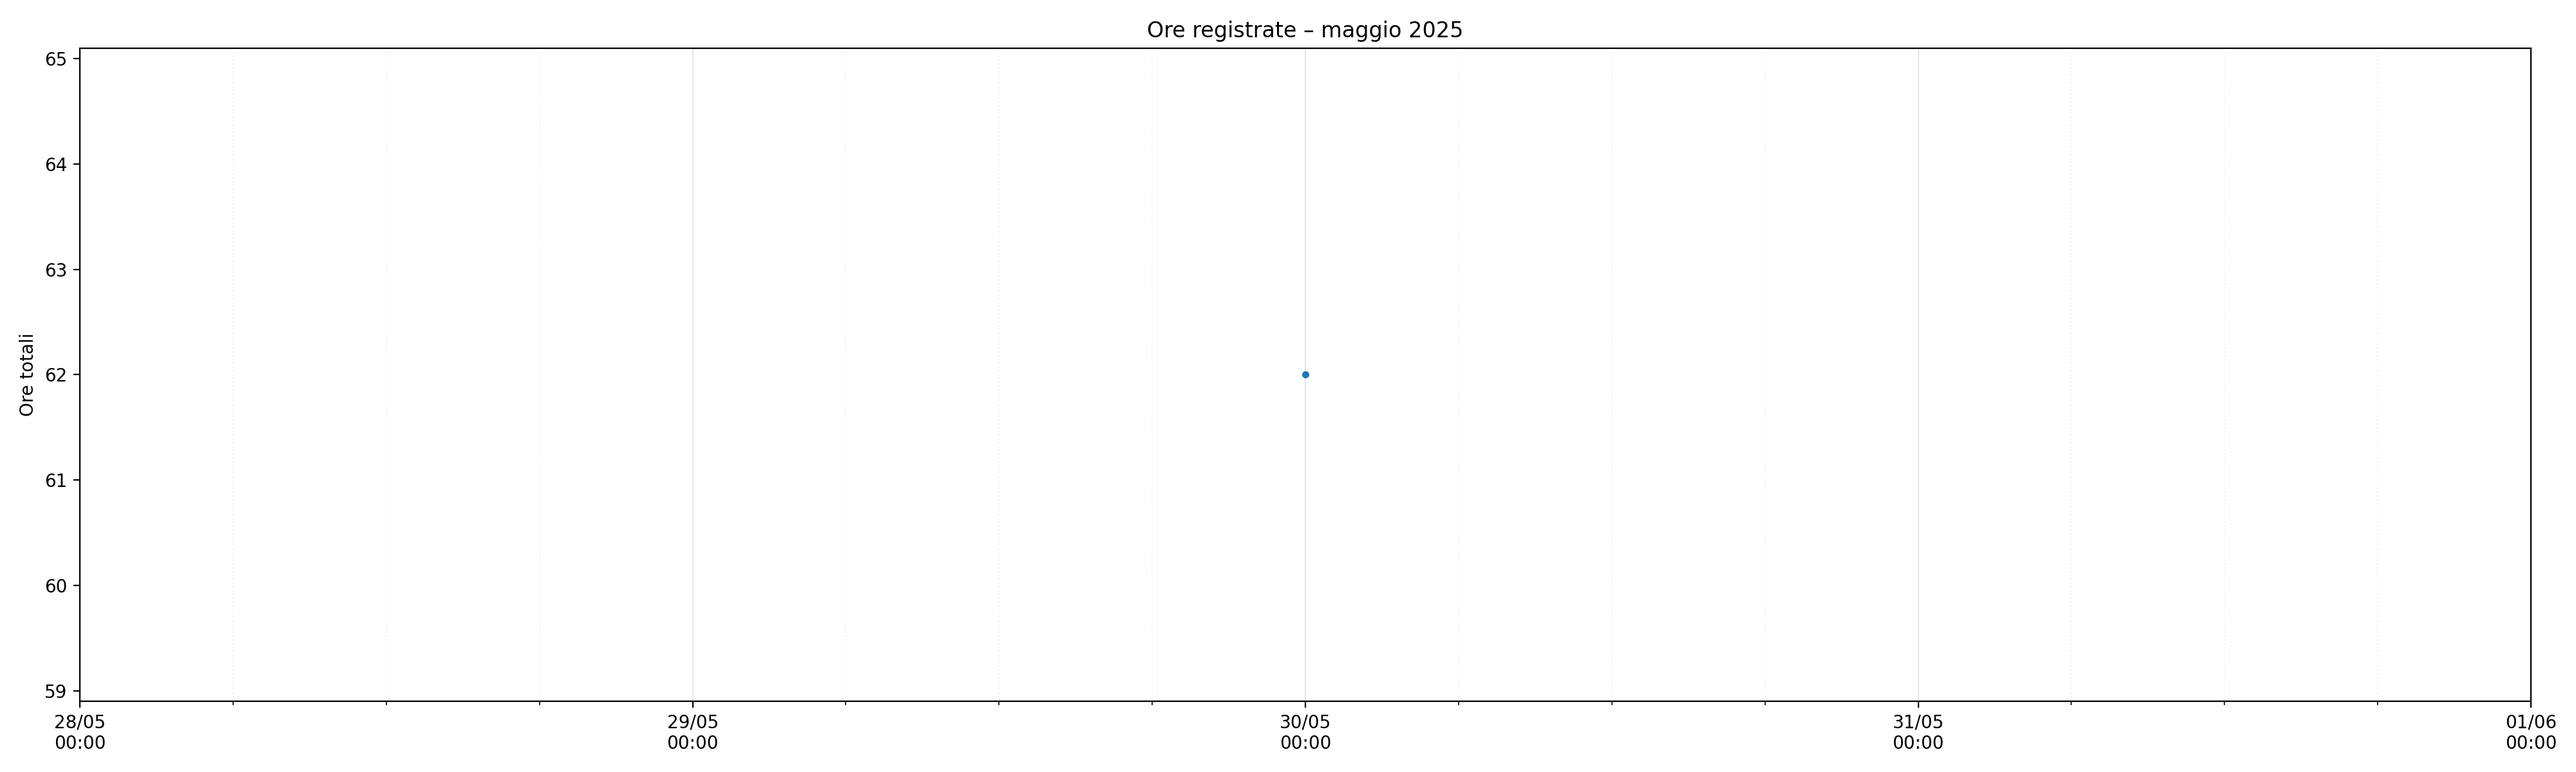
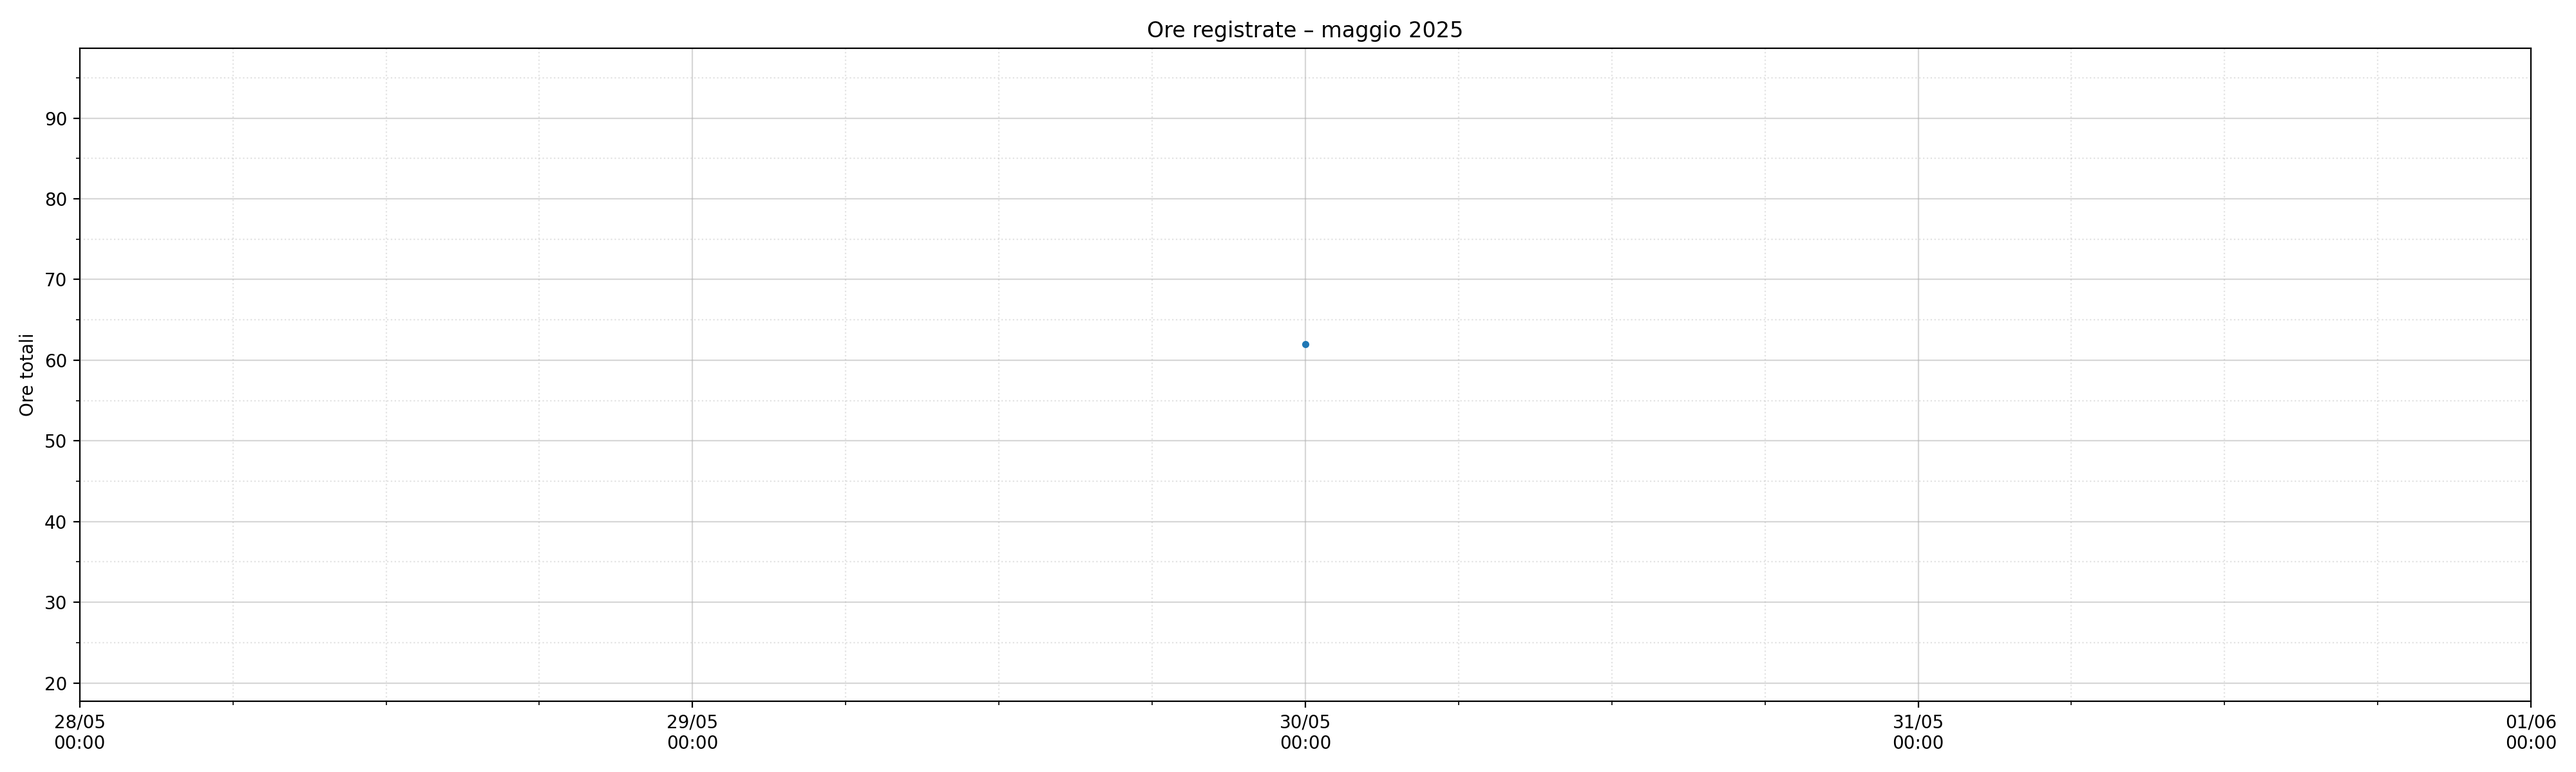
update + fixed grid representation (also hours grid fix)

Changed region(s): [[0.25, 0.925, 0.2812, 0.9558], [0.0, 0.4625, 0.0312, 0.4933], [0.0, 0.3392, 0.0312, 0.37]]

diff --git a/calcolatore.py b/calcolatore.py
@@ -3,6 +3,7 @@ import matplotlib.pyplot as plt
 import matplotlib.dates as mdates
 from matplotlib.dates import DateFormatter, DayLocator, HourLocator
 from datetime import timedelta
+import math
 import os
 import json
 import locale
@@ -41,15 +42,23 @@ def get_y_limits(series, margin=0.05):
     pad = (y_max - y_min) * margin
     return y_min - pad, y_max + pad
 
-# Funzione standard per configurare asse X con griglia precisa
-def configure_x_axis(ax):
+# Funzione per configurare gli assi della griglia
+def configure_axes(ax):
+    # Asse X
     ax.set_xlim(x_min, x_max)
     ax.xaxis.set_major_locator(DayLocator(interval=1))             # griglia ogni giorno a mezzanotte
-    ax.xaxis.set_minor_locator(HourLocator(interval=6))            # griglia leggera ogni 6 ore
+    #ax.xaxis.set_minor_locator(DayLocator(interval=4))
+    ax.xaxis.set_minor_locator(HourLocator(byhour=[0, 6, 12, 18]))  # griglia leggera ogni 6 ore
     ax.xaxis.set_major_formatter(x_fmt)
     ax.tick_params(axis='x', rotation=0)  # verticale per evitare sovrapposizione
-    ax.grid(which="major", axis='x', alpha=0.3)
-    ax.grid(which="minor", axis='x', linestyle=":", alpha=0.15)
+    ax.grid(which="major", axis='x', alpha=0.5)
+    ax.grid(which="minor", axis='x', linestyle=":", alpha=0.35)
+
+    # Asse Y
+    ax.yaxis.set_major_locator(plt.MaxNLocator(math.ceil(df["hours"].max() / 10))) # numero divisibile per 10 più grande più vicino
+    ax.yaxis.set_minor_locator(plt.MaxNLocator(math.ceil(df["hours"].max() / 5)))
+    ax.grid(which="major", axis='y', alpha=0.5)
+    ax.grid(which="minor", axis='y', linestyle=":", alpha=0.35)
 
 # Grafico 1 – Ore registrate da Steam
 fig, ax = plt.subplots(figsize=(80,24))
@@ -59,7 +68,7 @@ ax.plot(plot_df.index, plot_df["hours"], marker="o", linestyle="-", color="#1f77
 ax.set_title("Ore registrate (Steam: ultime 2 settimane)")
 ax.set_ylabel("Ore totali")
 ax.set_ylim(*get_y_limits(df["hours"]))
-configure_x_axis(ax)
+configure_axes(ax)
 plt.tight_layout()
 fig.savefig("grafici/01_snapshot_ore.png", dpi=300)
 
@@ -73,7 +82,7 @@ ax.set_title("Differenza di ore tra snapshot consecutivi")
 ax.set_ylabel("Δ ore")
 ax.axhline(0, color="gray", linestyle="--", linewidth=0.8)
 ax.set_ylim(*get_y_limits(df["delta_hours"]))
-configure_x_axis(ax)
+configure_axes(ax)
 plt.tight_layout()
 fig.savefig("grafici/02_delta_ore.png", dpi=300)
 
@@ -85,7 +94,7 @@ ax.set_title("Differenza di ore tra snapshot consecutivi")
 ax.set_ylabel("Δ ore")
 ax.axhline(0, color="gray", linestyle="--", linewidth=0.8)
 ax.set_ylim(*get_y_limits(df["delta_hours"]))
-configure_x_axis(ax)
+configure_axes(ax)
 plt.tight_layout()
 fig.savefig("grafici/02_delta_ore_migliorato.png", dpi=300)
 
@@ -99,7 +108,7 @@ ax.set_title("Tempo di gioco cumulativo stimato dalle variazioni")
 ax.set_ylabel("Ore totali aggiunte")
 ax.axhline(0, color="gray", linestyle="--", linewidth=0.8)
 ax.set_ylim(*get_y_limits(df["cumulative_delta"]))
-configure_x_axis(ax)
+configure_axes(ax)
 plt.tight_layout()
 fig.savefig("grafici/03_delta_cumulativo.png", dpi=300)
 
@@ -110,7 +119,7 @@ ax.set_title("Tempo di gioco cumulativo stimato dalle variazioni")
 ax.set_ylabel("Ore totali aggiunte")
 ax.axhline(0, color="gray", linestyle="--", linewidth=0.8)
 ax.set_ylim(*get_y_limits(df["cumulative_delta"]))
-configure_x_axis(ax)
+configure_axes(ax)
 # Annotazione finale
 final_value = df["cumulative_delta"].iloc[-1]
 final_time = df.index[-1]
@@ -150,16 +159,8 @@ for (year, month), group in df.groupby(["year", "month"]):
     #ax.set_title(f"Ore registrate – {group.index[0].strftime('%B %Y')}")
     ax.set_title(f"Ore registrate – {group.index[0].strftime('%B %Y')}")
     ax.set_ylabel("Ore totali")
-    ax.set_ylim(*get_y_limits(group["hours"]))
-    
-    # Configura asse X con limiti personalizzati
-    ax.set_xlim(x_min, x_max)
-    ax.xaxis.set_major_locator(DayLocator(interval=1))
-    ax.xaxis.set_minor_locator(HourLocator(interval=6))
-    ax.xaxis.set_major_formatter(DateFormatter("%d/%m\n%H:%M"))
-    ax.tick_params(axis='x', rotation=0)
-    ax.grid(which="major", axis='x', alpha=0.3)
-    ax.grid(which="minor", axis='x', linestyle=":", alpha=0.15)
+    ax.set_ylim(*get_y_limits(df["hours"]))
+    configure_axes(ax)
 
     plt.tight_layout()
     filename = f"grafici/AnalisiMensile/{year}_{month:02d}_ore_mensili.png"
